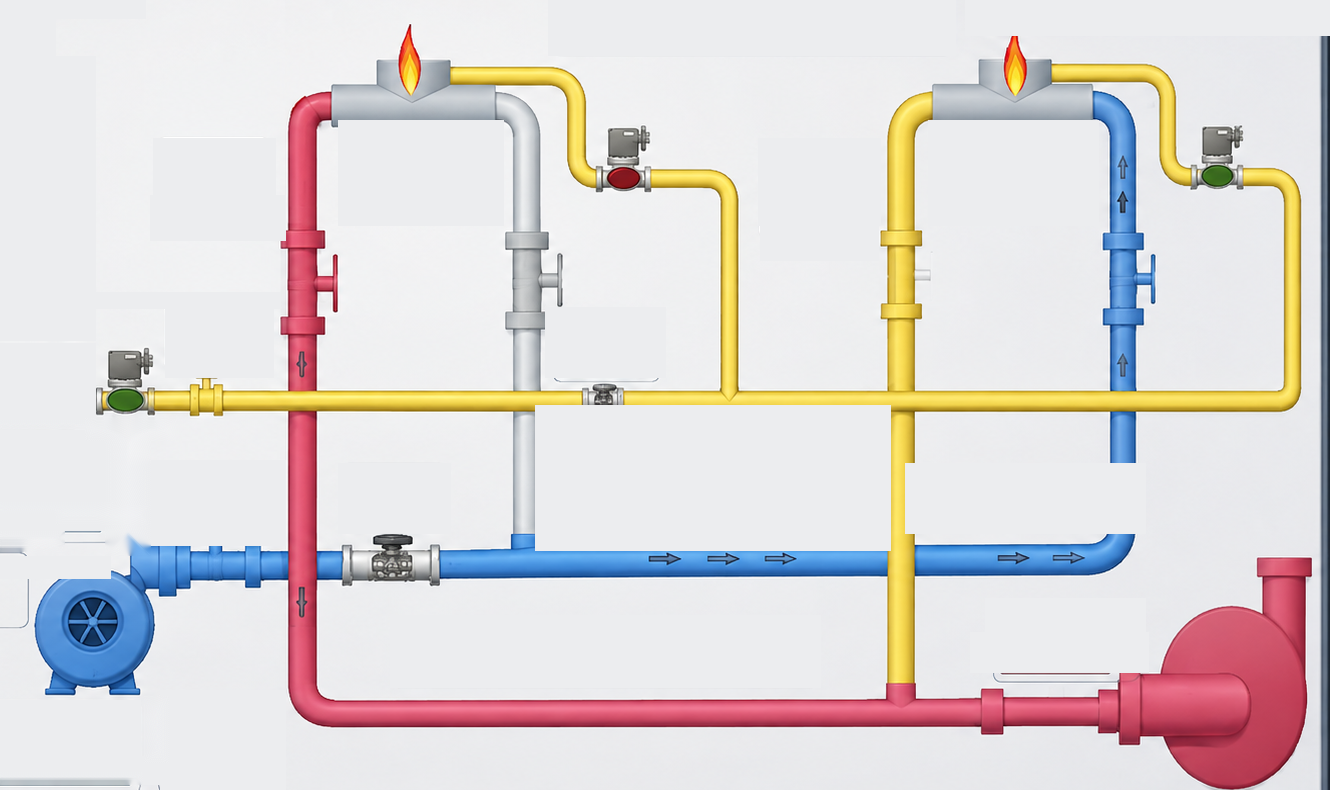
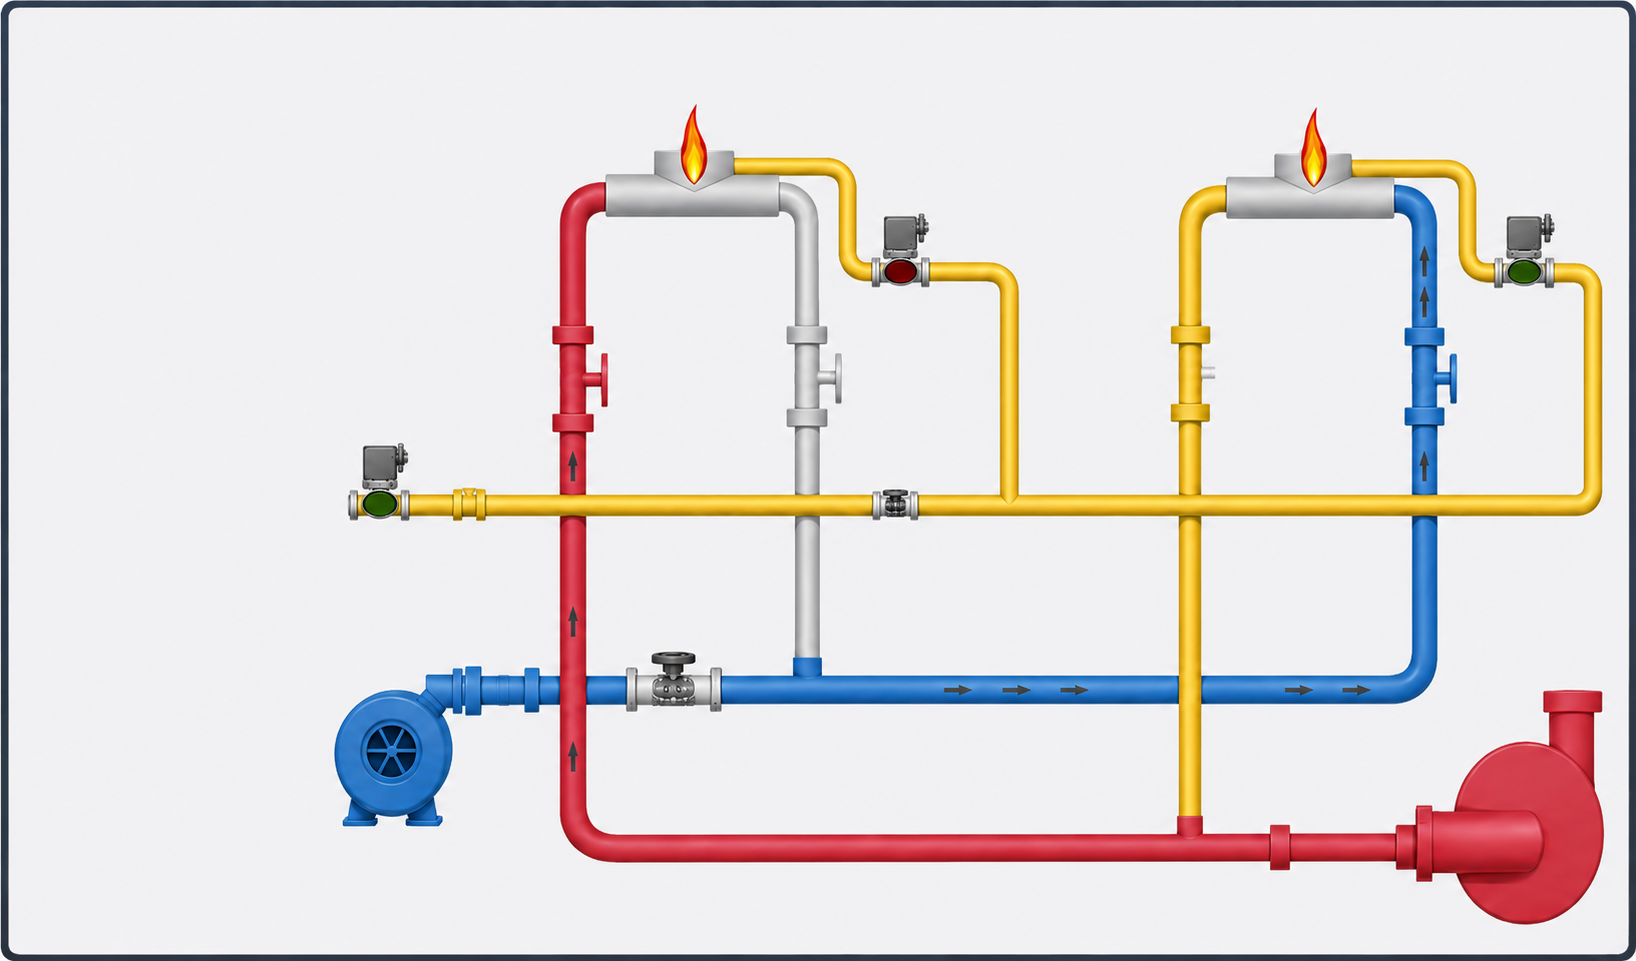
Rejen: boru semasini yeni temiz gorselle degistir
Fotograf tabanli HMI ekran goruntusu yerine, hicbir kalinti panel
izi olmayan yeni cizilmis boru semasi kullanildi. Aspect-ratio ve
tum badge (deger kutusu) konumlari yeni gorsele gore yeniden
hesaplandi - hicbir badge artik boru/vana/fan uzerine binmiyor.

diff --git a/public/rejen.html b/public/rejen.html
@@ -88,7 +88,7 @@
   /* Diyagram (borulu sema) + sol taraftaki gruplu bilgi panelleri */
   .dashboard-layout { display: flex; gap: 20px; align-items: flex-start; flex-wrap: wrap; }
   .side-panels { display: flex; flex-direction: column; gap: 14px; width: 260px; flex: 0 0 260px; }
-  .stage-wrap { position: relative; flex: 1 1 420px; min-width: 320px; aspect-ratio: 1330 / 790; background: var(--stage-bg) url('/rejen-bg.png') center / cover no-repeat; border: 1px solid var(--border); border-radius: 12px; overflow: hidden; }
+  .stage-wrap { position: relative; flex: 1 1 420px; min-width: 320px; aspect-ratio: 1636 / 961; background: var(--stage-bg) url('/rejen-bg.png') center / cover no-repeat; border: 1px solid var(--border); border-radius: 12px; overflow: hidden; }
 
   .panel-card { background: var(--surface); border: 1px solid var(--border); border-radius: 10px; padding: 14px; }
   .panel-card h3 { margin: 0 0 10px; font-size: 11px; font-weight: 700; text-transform: uppercase; letter-spacing: 0.03em; color: var(--text-secondary); }
@@ -238,15 +238,15 @@
       </aside>
 
       <div class="stage-wrap" id="stage">
-        <div class="badge" id="badge-egzoz1" style="left:15.98%; top:24.03%;"></div>
-        <div class="badge" id="badge-egzoz2" style="left:59.38%; top:23.51%;"></div>
+        <div class="badge" id="badge-egzoz1" style="left:42.79%; top:31.22%;"></div>
+        <div class="badge" id="badge-egzoz2" style="left:79.16%; top:31.22%;"></div>
 
-        <div class="badge" id="badge-gazKlape" style="left:16.35%; top:43.91%;"></div>
-        <div class="badge" id="badge-havaKlape" style="left:30.08%; top:58.23%;"></div>
-        <div class="badge" id="badge-egzozKlape" style="left:79.14%; top:82.86%;"></div>
+        <div class="badge" id="badge-gazKlape" style="left:56.23%; top:43.70%;"></div>
+        <div class="badge" id="badge-havaKlape" style="left:42.79%; top:61.39%;"></div>
+        <div class="badge" id="badge-egzozKlape" style="left:92.91%; top:46.83%;"></div>
 
-        <div class="badge" id="badge-farkBasinc1" style="left:50.95%; top:62.78%;"></div>
-        <div class="badge" id="badge-farkBasinc2" style="left:76.21%; top:62.86%;"></div>
+        <div class="badge" id="badge-farkBasinc1" style="left:58.07%; top:62.43%;"></div>
+        <div class="badge" id="badge-farkBasinc2" style="left:78.85%; top:62.43%;"></div>
       </div>
     </div>
 
